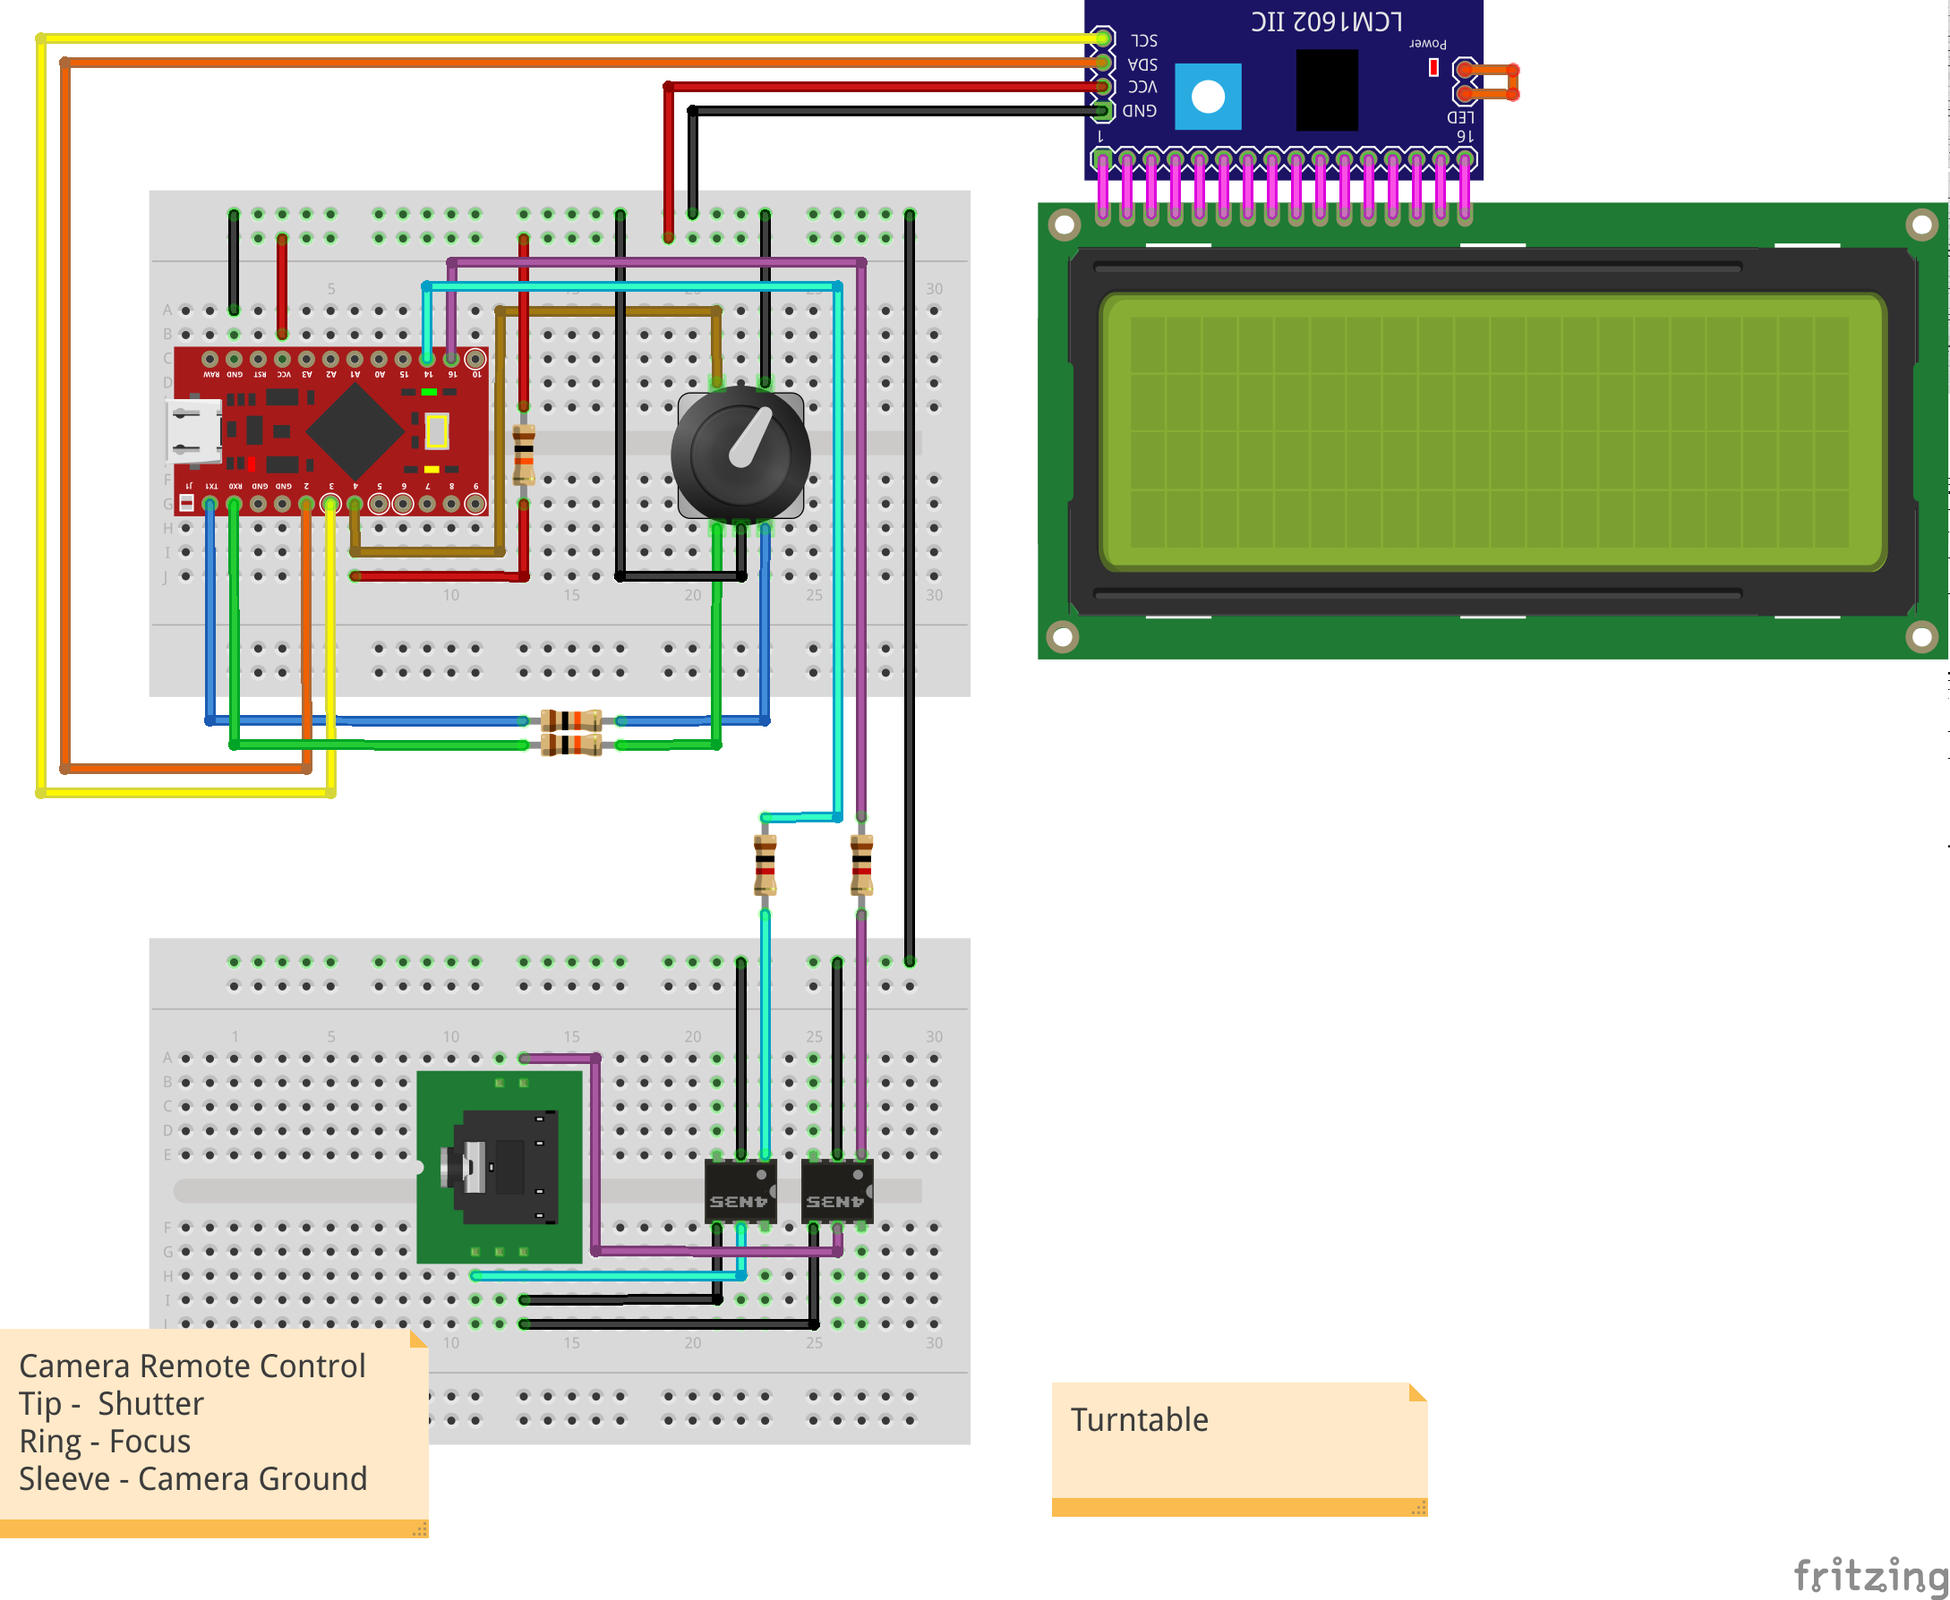
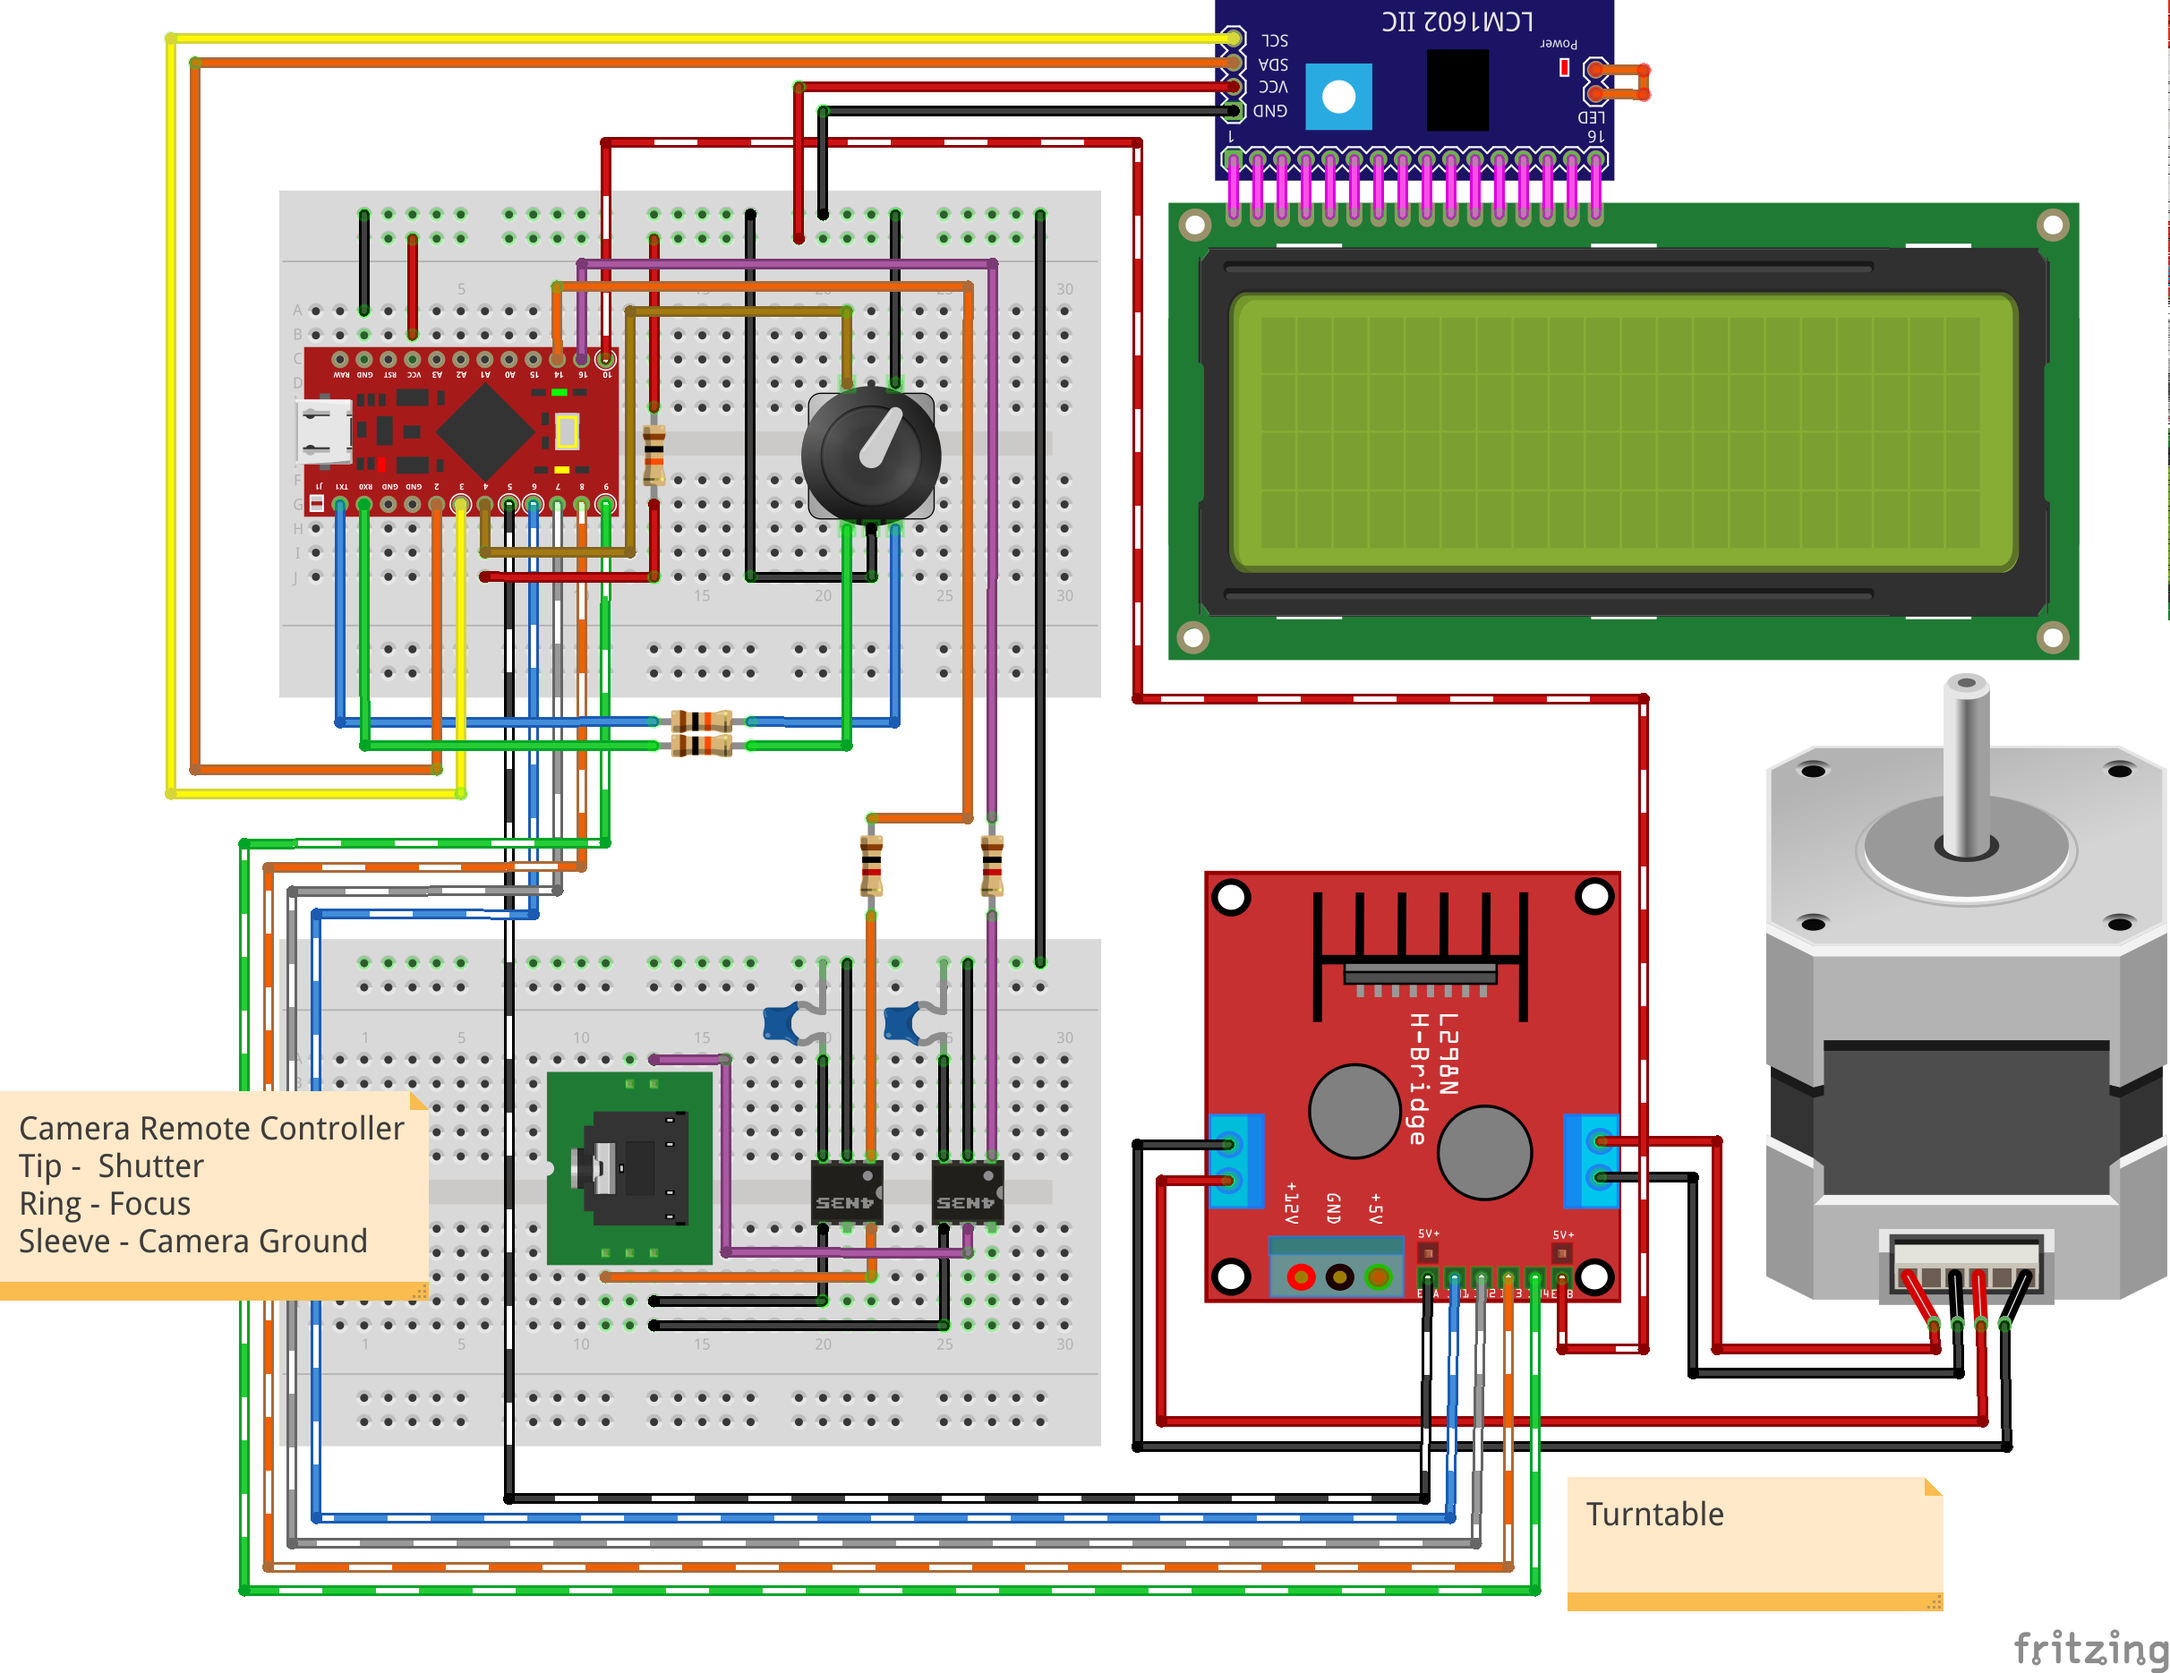
Added new options in setting menu.

diff --git a/README.md b/README.md
@@ -1,6 +1,6 @@
 # Spin 360
 
-Get a ' _360 photography _' - also known as ' _360 spin_ ', ' _360 view_ ', ' _Spin Photography_ ' or ' _Product Spin_ ' - with a photographic technique by which a series of photos are taken of an object as it rotates one full revolution.
+Get a ' _360 photography_' - also known as ' _360 spin_ ', ' _360 view_ ', ' _Spin Photography_ ' or ' _Product Spin_ ' - with a photographic technique by which a series of photos are taken of an object as it rotates one full revolution.
 
 The purpose of **_Spin 360_** is to automate the process of obtaining the pictures, rotating a platform and shooting a camera in each platform position. In this way you will only need to choose the number of pictures that you desire and this project will do all the work.
 
@@ -22,13 +22,15 @@ The purpose of **_Spin 360_** is to automate the process of obtaining the pictur
 * 10k Ohm resistor x3
 * 1k Ohm resistor x2
 * 4N45 Optocoupler x2
+* 1 uF capacitor x2
 
 ## Dependencies
 
 > LiquidCrystal_I2C only is compatible with the Arduino 1.6.5 IDE Release, don't work in newest releases.
 
-**_Spin 360_** needs in addition to the libraries which come installed with the [Arduino IDE](https://www.arduino.cc/en/Main/Software), another library for working with the LCD Display connected to I2C:
+**_Spin 360_** needs in addition to the libraries which come installed with the [Arduino IDE](https://www.arduino.cc/en/Main/Software), another libraries for working with the LCD Display connected to I2C and the Rotary Encoder:
 *  [LiquidCrystal_I2C](https://github.com/marcoschwartz/LiquidCrystal_I2C) by @marcoschwartz ,you can find it with the _Library Manager_ of the  _Arduino IDE_
+*  [Encoder](http://www.pjrc.com/teensy/td_libs_Encoder.html) by Paul Stoffregen ,you can find it with the _Library Manager_ of the  _Arduino IDE_
 
 ## Arduino Schematic
 ![Connection Scheme](figures/arduino_schematic.png)
